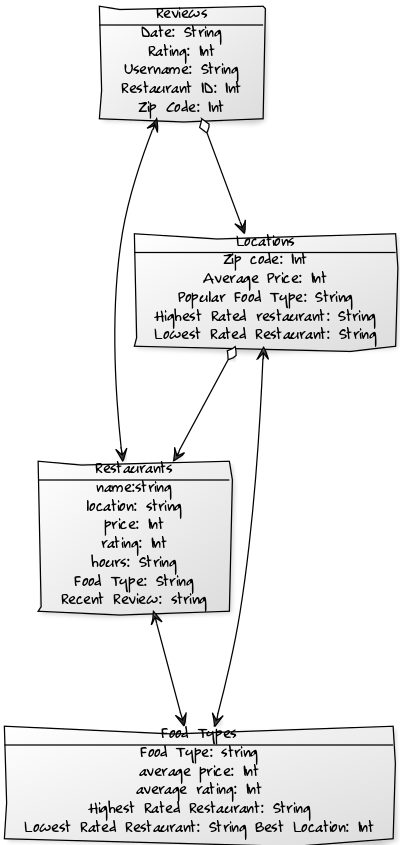
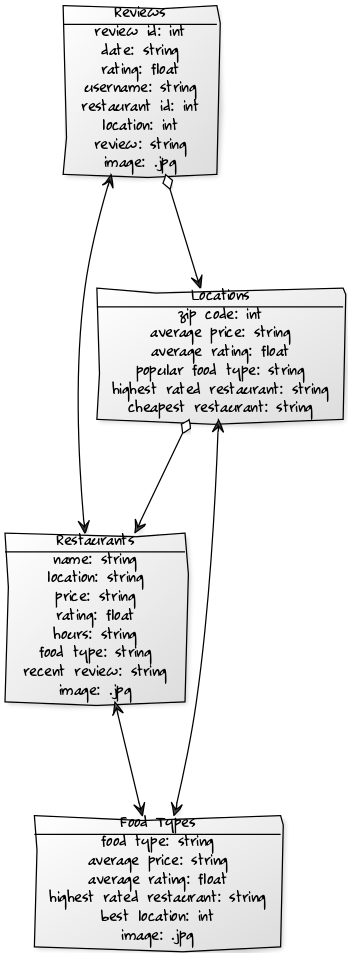
Finished organizing and updating models and yuml file/figure

Changed region(s): [[0.0, 0.0, 1.0, 1.0], [0.2011, 0.3692, 0.2299, 0.4923], [0.546, 0.5231, 0.5747, 0.5538]]

diff --git a/app/templates/review_instance.html b/app/templates/review_instance.html
@@ -4,21 +4,27 @@
 <body>
 <div class="flex-container">
 <header>
-  <h1 class = "detailView">{{ instance["username"] }} - review of {{ instance["restaurant"] }}</h1>
+  <h1 class = "detailView">{{ instance["username"] }} - {{ instance["review_id"] }}</h1>
 </header>
 
 <nav class="nav">
 <ul>
-  <li><a href="#">More {{instance["food_type"] }} restaurants</a></li>
-  <li><a href="#">More Reviews</a></li>
+  <li><a href="#">Go to {{instance["restaurant"] }}</a></li>
+  <li><a href="#">Go to {{instance["location"] }}</a></li>
 </ul>
 </nav>
 
 <article class="article">
-    <p> <img src="{{ url_for('static', filename='img/' + 'temp_image.png')}}" align="right"> </p>
+  <p> <img src="{{ url_for('static', filename='img/' + 'temp_image.png')}}" align="right"> </p>
+
+  <h2> Username </h2>
+  <p> {{ instance["username"] }} </p>
+
+  <h2> Restaurant </h2>
+  <p> {{ instance["restaurant"] }} </p>
 
   <h2> Location </h2>
-  <p> {{ instance["zip"] }} </p>
+  <p> {{ instance["location"] }} </p>
 
   <h2> Rating </h2>
   <p> {{ instance["rating"] }} </p>
@@ -26,8 +32,8 @@
   <h2> Review </h2>
   <p> {{ instance["review"] }} </p>
 
-    <h2> Date </h2>
-    <p> {{ instance["date"] }} </p>
+  <h2> Date </h2>
+  <p> {{ instance["date"] }} </p>
 
 </article>
 

diff --git a/app/templates/location_instance.html b/app/templates/location_instance.html
@@ -9,28 +9,29 @@
 
 <nav class="nav">
 <ul>
-  <li><a href="#">List restaurants in {{ instance["zip"] }}</a></li>
-  <li><a href="#">List Food Types in {{ instance["zip"] }}</a></li>
+  <li><a href="#">Go to {{ instance["popular_food_type"] }}</a></li>
+  <li><a href="#">Go to {{ instance["highest_rated_restaurant"] }}</a></li>
+  <li><a href="#">Go to {{ instance["cheapest_restaurant"] }}</a></li>
 </ul>
 </nav>
 
 <article class="article">
   <!-- <p> <img src="{{ url_for('static', filename='img/' + 'temp_image.png')}}" align="right"> </p>
   -->
-  <h2> Location </h2>
-  <p> {{ instance["zip"] }} </p>
-
   <h2> Average Price </h2>
   <p> {{ instance["average_price"] }} </p>
 
   <h2> Average Rating </h2>
   <p> {{ instance["average_rating"] }} </p>
 
-  <h2> Highest Rated Restaurant </h2>
-  <p> "{{ instance["highest_rated_restaurant"] }}" </p>
+  <h2> Popular Food Type </h2>
+  <p> {{ instance["popular_food_type"] }} </p>
 
-   <h2> Lowest Rated Restaurant </h2>
-   <p> "{{ instance["lowest_rated_restaurant"] }}" </p>
+  <h2> Highest Rated Restaurant </h2>
+  <p> {{ instance["highest_rated_restaurant"] }} </p>
+
+   <h2> Cheapest Restaurant </h2>
+   <p> {{ instance["cheapest_restaurant"] }} </p>
 </article>
 
 <footer>SWE Phase 1</footer>

diff --git a/app/templates/food_type_instance.html b/app/templates/food_type_instance.html
@@ -9,23 +9,26 @@
 
 <nav class="nav">
 <ul>
-   <li><a href="#">Best Location for {{instance["food_type"] }}: {{ instance["best_location"] }}</a></li>
-
-  <li><a href="#">Highest Rated Restaurant for {{ instance["food_type"] }}: {{
-        instance["highest_rated_restaurant"] }}</a></li>
-
+  <li><a href="#">Go to {{ instance["best_location"] }}</a></li>
+  <li><a href="#">Go to {{ instance["highest_rated_restaurant"] }}</a></li>
 </ul>
 </nav>
 
 <article class="article">
-    <!-- <p> <img src="{{ url_for('static', filename='img/' + 'temp_image.png')}}" align="right">
-    </p> -->
-
-  <h2> Average Rating </h2>
-  <p> {{ instance["average_rating"] }} </p>
+    <p> <img src="{{ url_for('static', filename='img/' + 'temp_image.png')}}" align="right">
+    </p>
 
   <h2> Average Price </h2>
   <p> {{ instance["average_price"] }} </p>
+  
+  <h2> Average Rating </h2>
+  <p> {{ instance["average_rating"] }} </p>
+
+  <h2> Best Location </h2>
+  <p> {{ instance["best_location"] }} </p>
+
+  <h2> Highest Rated Restaurant </h2>
+  <p> {{ instance["highest_rated_restaurant"] }} </p>
 
 </article>
 

diff --git a/app/templates/restaurant_instance.html b/app/templates/restaurant_instance.html
@@ -9,8 +9,9 @@
 
 <nav class="nav">
 <ul>
-  <li><a href="#">More {{instance["food_type"] }} restaurants</a></li>
-  <li><a href="#">More Reviews</a></li>
+  <li><a href="#">Go to {{instance["food_type"] }}</a></li>
+  <li><a href="#">Go to {{instance["zip"] }}</a></li>
+  <li><a href="#">Go to Review</a></li>
 </ul>
 </nav>
 
@@ -31,7 +32,7 @@
   <h2> Hours </h2>
   <p> {{ instance["hours"] }} </p>
 
-  <h2> Last Review </h2>
+  <h2> Recent Review </h2>
   <p> "{{ instance["last_review"] }}" </p>
 </article>
 

diff --git a/app/views.py b/app/views.py
@@ -60,33 +60,38 @@ restaurant_db=[
 location_db=[
     {"zip": "78701",
     "average_price": "$$",
+    "average_rating": "4",
     "popular_food_type": "Italian",
     "highest_rated_restaurant": "Little Italy",
-    "lowest_rated_restaurant": "Little Italia"
+    "cheapest_restaurant": "Niki's Pizza"
     },
     {"zip": "78702", 
     "average_price": "$$$",
+    "average_rating": "5",
     "popular_food_type": "Mediterranean",
     "highest_rated_restaurant": "Gato",
-    "lowest_rated_restaurant": "Kitty"
+    "cheapest_restaurant": "Verts"
     },
     {"zip": "78703", 
     "average_price": "$",
+    "average_rating": "3",
     "popular_food_type": "American",
     "highest_rated_restaurant": "Stack Burgers",
-    "lowest_rated_restaurant": "Piled Sandwiches"
+    "cheapest_restaurant": "McDonalds"
     },
     {"zip": "78704", 
     "average_price": "$$",
+    "average_rating": "2",
     "popular_food_type": "Indian",
     "highest_rated_restaurant": "Biryani",
-    "lowest_rated_restaurant": "Mcdonalds"
+    "cheapest_restaurant": "Tarka"
     },
     {"zip": "78705", 
     "average_price": "$",
+    "average_rating": "4.5",
     "popular_food_type": "Chinese",
     "highest_rated_restaurant": "Ho ho Chinese BBQ",
-    "lowest_rated_restaurant": "Panda Express"
+    "cheapest_restaurant": "Panda Express"
     }]
 
 food_type_db=[
@@ -127,7 +132,7 @@ review_db =[
      "rating": "4",
      "username": "Federico",
      "restaurant": "Little Italy",
-     "zip": "78701",
+     "location": "78701",
      "review": "Incredible Garlic Bread",
      "restaurant_id": "1"
     },
@@ -136,7 +141,7 @@ review_db =[
      "rating": "3",
      "username": "Chuck",
      "restaurant": "Gato",
-     "zip": "78702",
+     "location": "78702",
      "review": "Great Hummus",
      "restaurant_id": "2"
     },
@@ -145,7 +150,7 @@ review_db =[
      "rating": "5",
      "username": "Gabriel",
      "restaurant": "Stack Burgers",
-     "zip": "78703",
+     "location": "78703",
      "review": "Didn't like their Waffles",
      "restaurant_id": "3"
     },
@@ -153,8 +158,8 @@ review_db =[
      "date": "1/10/2017",
      "rating": "4",
      "username": "Dominique",
-     "restaurant": "Biryani",
-     "zip": "78704",
+     "restaurant": "Biryani Pot",
+     "location": "78704",
      "review": "Great Basmati rice",
      "restaurant_id": "4"
     },
@@ -162,8 +167,8 @@ review_db =[
      "date": "1/11/2004",
      "rating": "4",
      "username": "Maggie",
-     "restaurant": "Ho Ho chinese BBQ",
-     "zip": "78705",
+     "restaurant": "Ho Ho Chinese BBQ",
+     "location": "78705",
      "review": "I didn't like the General Tso Chicken",
      "restaurant_id": "5"
      }]
